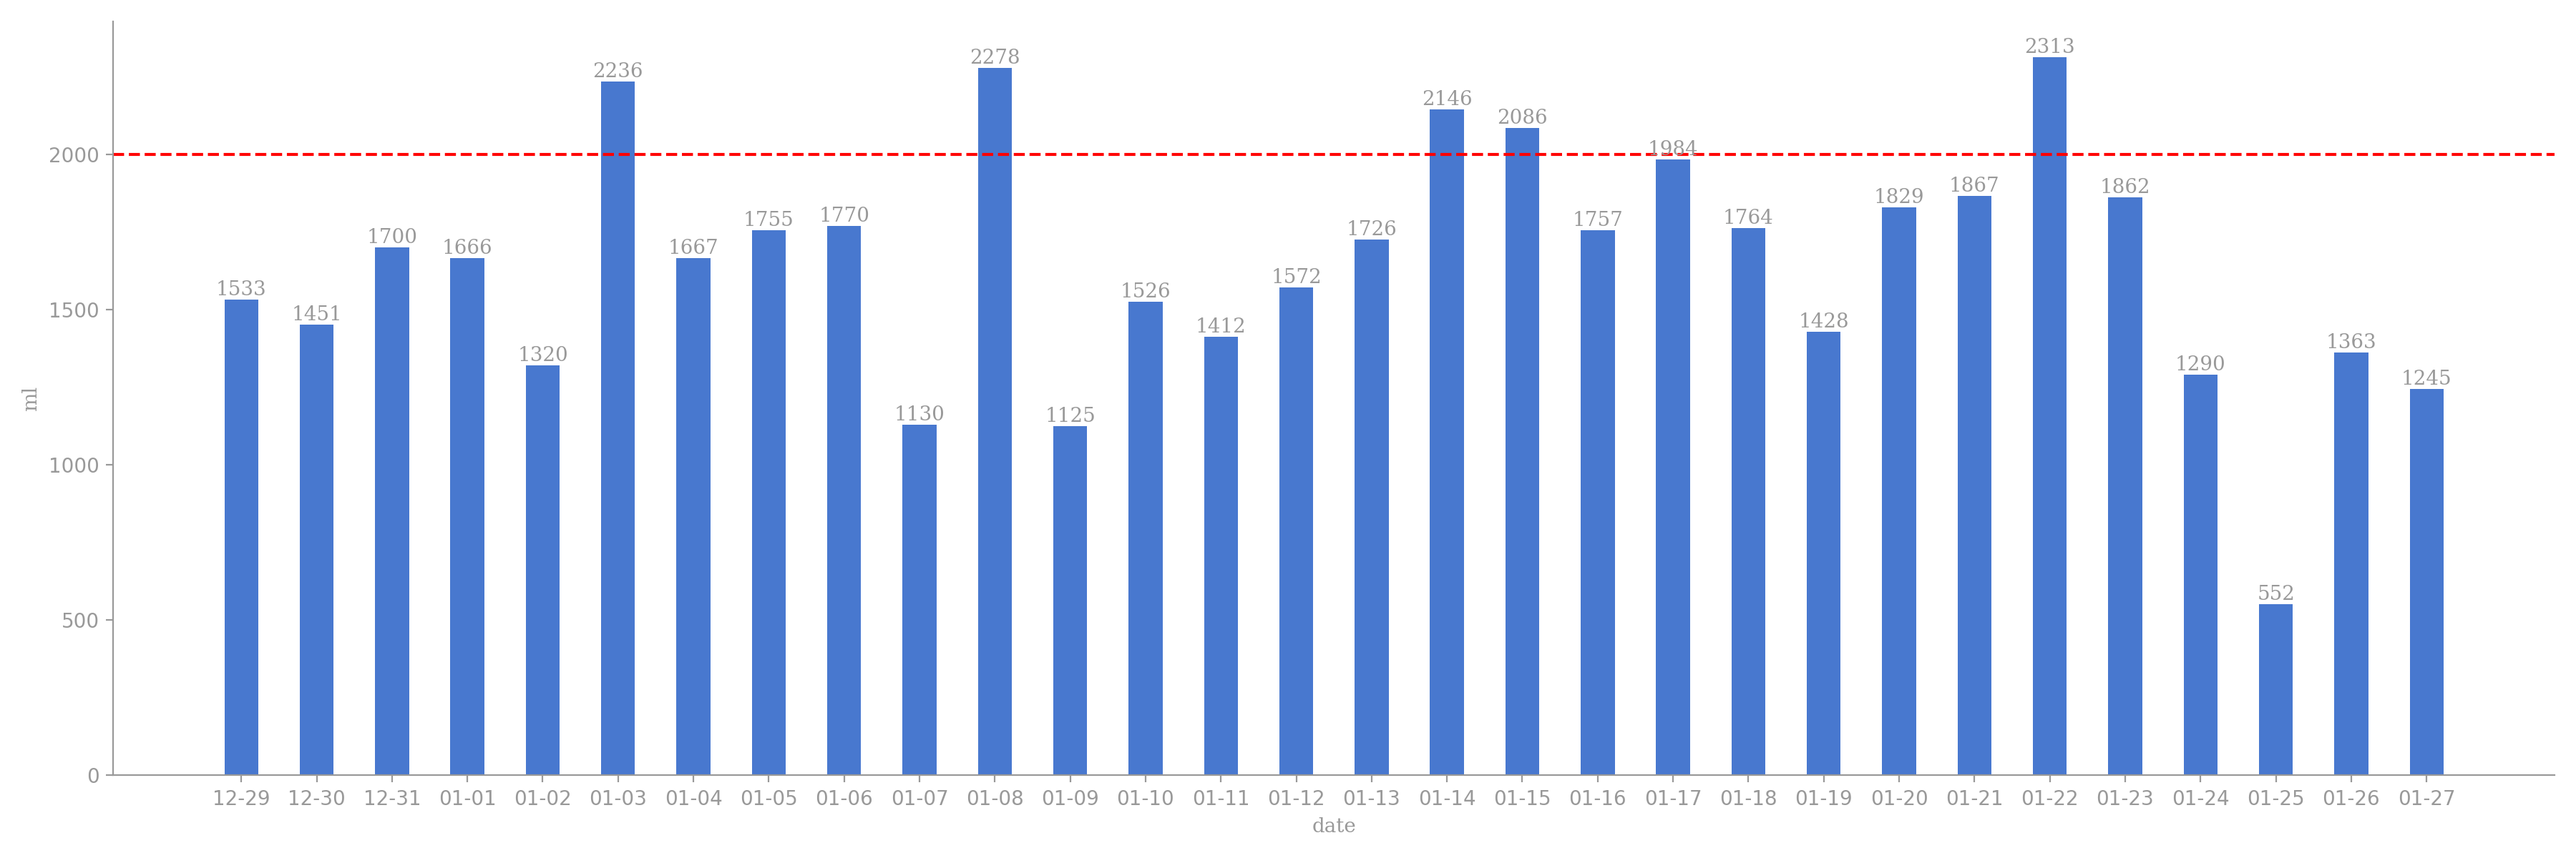
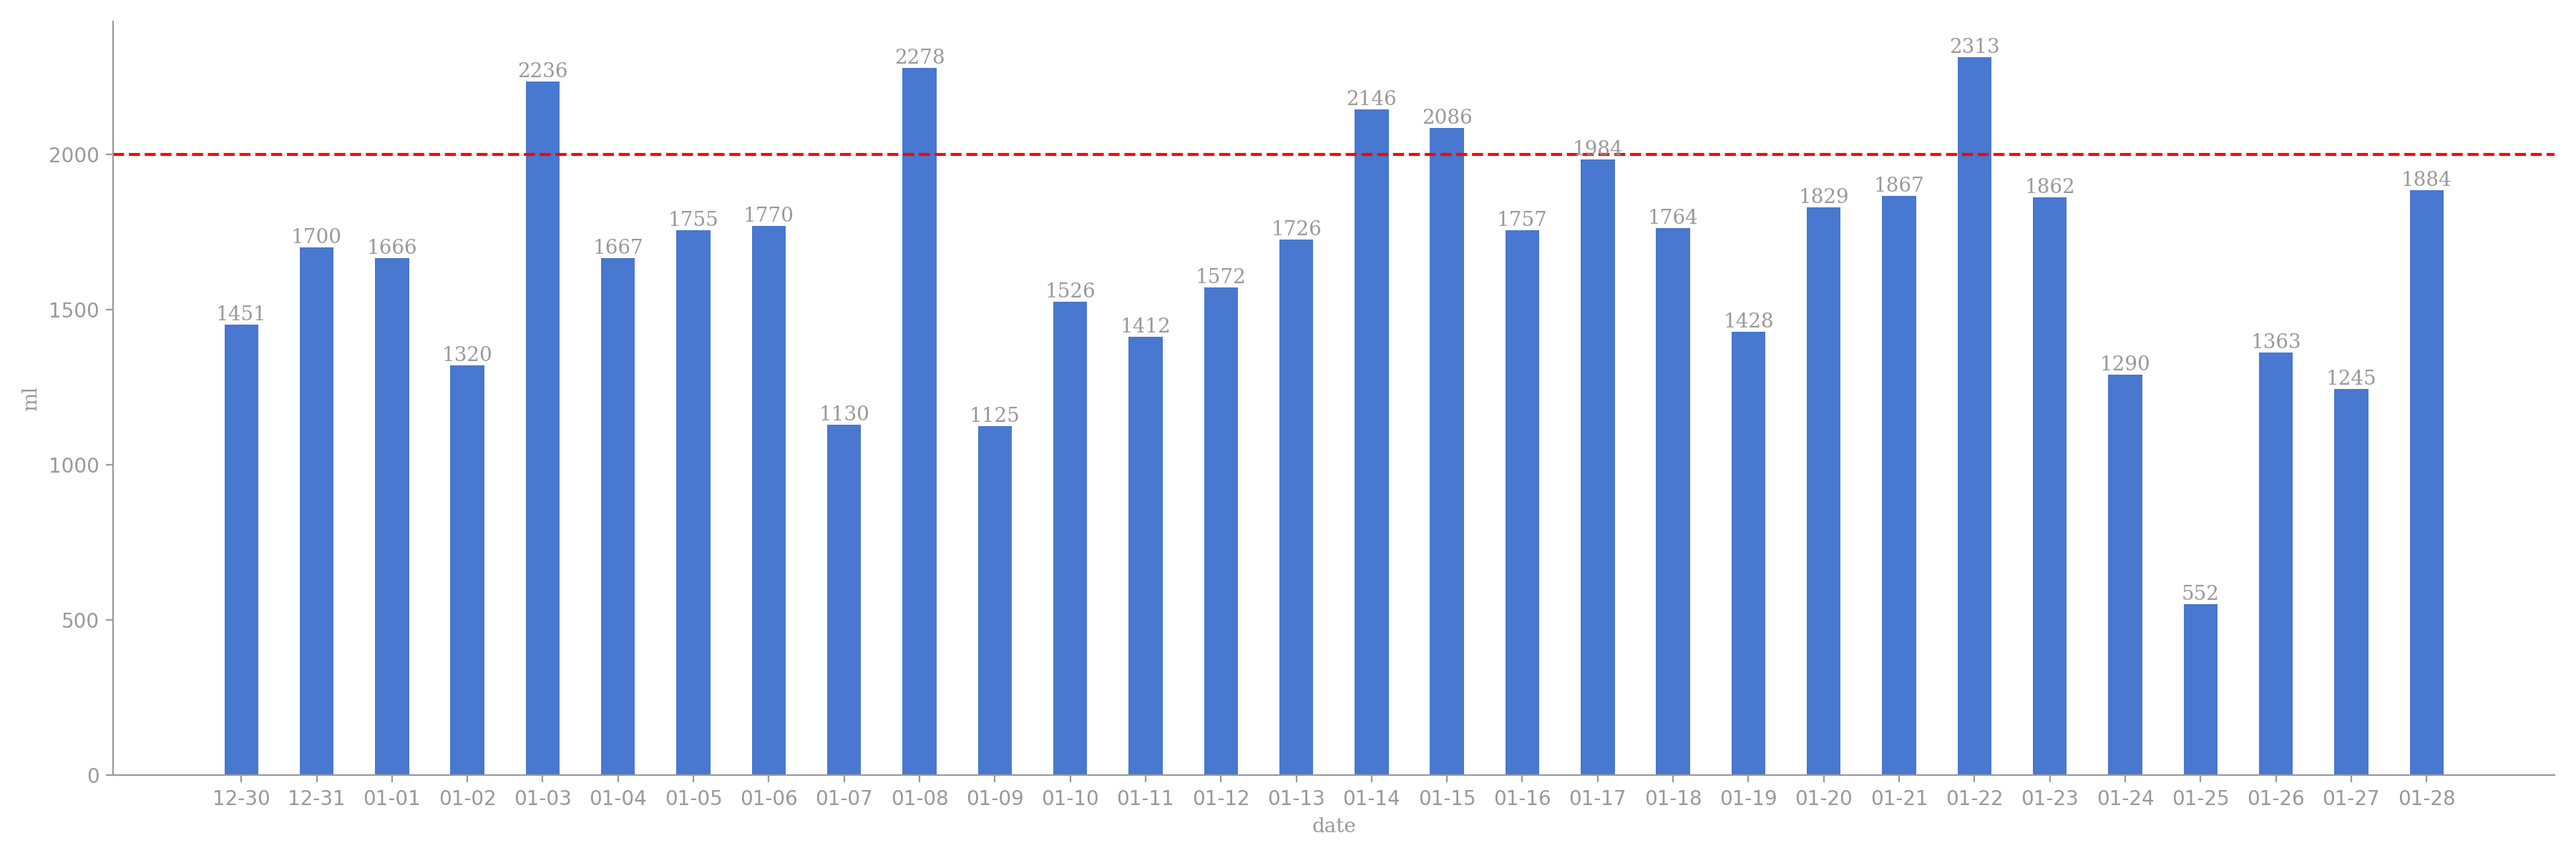
generated readme

Changed region(s): [[0.0622, 0.0308, 0.9644, 0.7092], [0.1244, 0.925, 0.1556, 0.9558]]

diff --git a/README.md b/README.md
@@ -1,17 +1,3 @@
-# 今日饮水数据
-
-<div align=center>
-<img src="today.png" style="zoom: 100%;" />
-
-| 今日总饮水量 | 每小时平均饮水量 |
-| :----: | :----: |
-| 1884 | 188 |
-</div>
-
-| 日期 | 08:30:30 | 10:34:19 | 10:45:14 | 12:36:29 | 13:25:01 | 16:07:44 | 18:22:41 | 18:25:55 | 18:53:50 | 18:57:23 | 19:05:33 | 20:11:34 | 21:06:25 | 22:31:57 |
-| :----: | :----: | :----: | :----: | :----: | :----: | :----: | :----: | :----: | :----: | :----: | :----: | :----: | :----: | :----: |
-| 2025-01-28 | 56 | 400 | 100 | 200 | 187 | 261 | 200 | 67 | 84 | 54 | 77 | 78 | 67 | 53 |
-
 # 近30日饮水数据
 
 <div align=center>
@@ -19,8 +5,12 @@
 
 | 总饮水量 | 日均饮水量 |
 | :----: | :----: |
-| 49353 | 1645 |
+| 49704 | 1656 |
 </div>
+
+| 日期 | all | 08:30:30 | 10:34:19 | 10:45:14 | 12:36:29 | 13:25:01 | 16:07:44 | 18:22:41 | 18:25:55 | 18:53:50 | 18:57:23 | 19:05:33 | 20:11:34 | 21:06:25 | 22:31:57 |
+| :----: | :----: | :----: | :----: | :----: | :----: | :----: | :----: | :----: | :----: | :----: | :----: | :----: | :----: | :----: | :----: |
+| 2025-01-28 | 1884 | 56 | 400 | 100 | 200 | 187 | 261 | 200 | 67 | 84 | 54 | 77 | 78 | 67 | 53 |
 
 | 日期 | all | 11:50:10 | 12:50:49 | 13:28:47 | 15:14:44 | 15:58:37 | 18:08:56 | 19:00:10 | 21:31:49 |
 | :----: | :----: | :----: | :----: | :----: | :----: | :----: | :----: | :----: | :----: |
@@ -141,8 +131,4 @@
 | 日期 | all | 00:49:52 | 02:09:42 | 08:43:26 | 11:37:22 | 14:09:31 | 14:37:46 | 15:51:21 | 17:24:14 | 20:30:26 | 20:46:38 | 22:02:18 |
 | :----: | :----: | :----: | :----: | :----: | :----: | :----: | :----: | :----: | :----: | :----: | :----: | :----: |
 | 2024-12-29 | 1533 | 300 | 64 | 92 | 67 | 68 | 98 | 65 | 101 | 139 | 89 | 450 |
-
-| 日期 | all | 01:16:19 | 07:59:40 | 09:35:06 | 09:59:31 | 11:04:30 | 11:53:11 | 12:18:33 | 13:06:50 | 13:49:30 | 15:00:21 | 17:03:35 | 19:54:33 | 20:23:24 | 22:09:48 | 23:43:37 |
-| :----: | :----: | :----: | :----: | :----: | :----: | :----: | :----: | :----: | :----: | :----: | :----: | :----: | :----: | :----: | :----: | :----: |
-| 2024-12-28 | 1713 | 76 | 139 | 113 | 89 | 87 | 77 | 200 | 127 | 98 | 89 | 83 | 78 | 79 | 78 | 300 |
 
